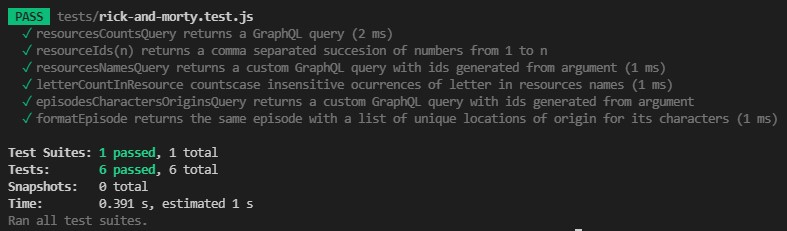
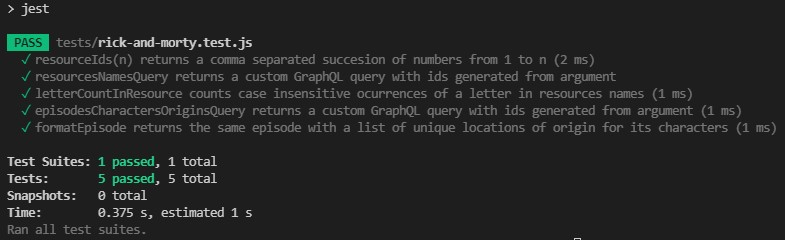
Converted resourcesCountQuery function to constant

Changed region(s): [[0.0, 0.0, 1.0, 0.5758], [0.0, 0.6364, 0.3363, 0.9091], [0.0, 0.9394, 0.1834, 0.9697]]

diff --git a/js/rick-and-morty.js b/js/rick-and-morty.js
@@ -10,33 +10,30 @@ async function apiResponse(query) {
   return response;
 }
 
-// This function returns a GraphQL query that only queries the API for the counts of each resource
-function resourcesCountsQuery() {
-  const query = JSON.stringify({
-    query: `{
-      locations {
-        info {
-          count
-        }
+// This constant stores a GraphQL query that only queries the API for the counts of each resource
+const resourcesCountsQuery = JSON.stringify({
+  query: `{
+    locations {
+      info {
+        count
       }
-      episodes {
-        info {
-          count
-        }
+    }
+    episodes {
+      info {
+        count
       }
-      characters {
-        info {
-          count
-        }
+    }
+    characters {
+      info {
+        count
       }
-    }`
-  });
-  return query;
-}
+    }
+  }`
+});
 
 // This function returns the counts of each resource in the API
 async function getCounts() {
-  const response = await apiResponse(resourcesCountsQuery());
+  const response = await apiResponse(resourcesCountsQuery);
   const json = await response.json();
   const counts = {
     locations: json.data.locations.info.count,

diff --git a/tests/rick-and-morty.test.js b/tests/rick-and-morty.test.js
@@ -2,29 +2,6 @@ const { test, expect } = require('@jest/globals');
 const expectExport = require('expect');
 const RickAndMorty = require('../js/rick-and-morty');
 
-test('resourcesCountsQuery returns a GraphQL query', () => {
-  const query = JSON.stringify({
-    query: `{
-      locations {
-        info {
-          count
-        }
-      }
-      episodes {
-        info {
-          count
-        }
-      }
-      characters {
-        info {
-          count
-        }
-      }
-    }`,
-  });
-  expect(RickAndMorty.resourcesCountsQuery()).toEqual(query);
-})
-
 test('resourceIds(n) returns a comma separated succesion of numbers from 1 to n', () => {
   expect(RickAndMorty.resourceIds(3)).toEqual('1,2,3')
 })
